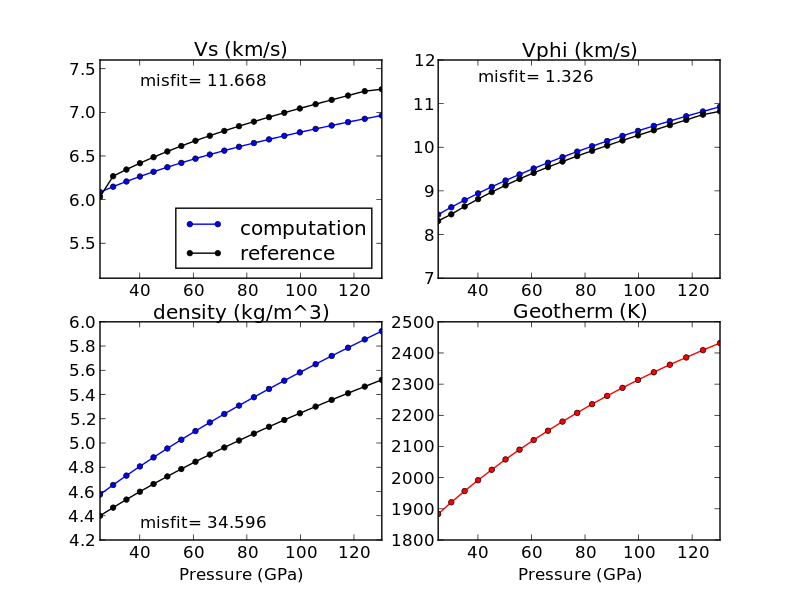
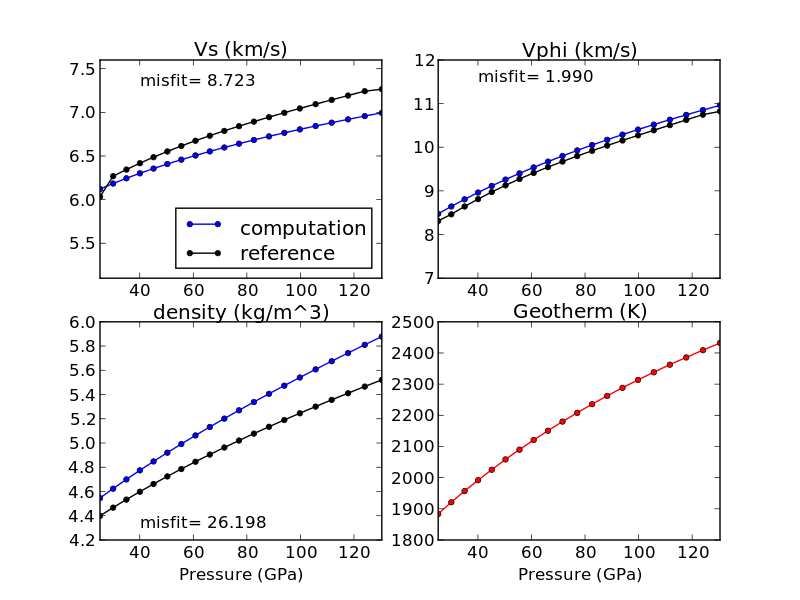
fix tests
git-svn-id: http://burnman.googlecode.com/svn/trunk@416 7ecf5a11-160e-3e22-d4cb-c1a8d750ac10

diff --git a/table.py b/table.py
@@ -45,7 +45,7 @@ if __name__ == "__main__":
     table = [ ['Name'] + params ]
     
     for p in phases:
-        p.set_method('bm')
+        p.set_method('bm2')
         p.set_state(0,300)
         row = create_list(p)
         table.append(row)
